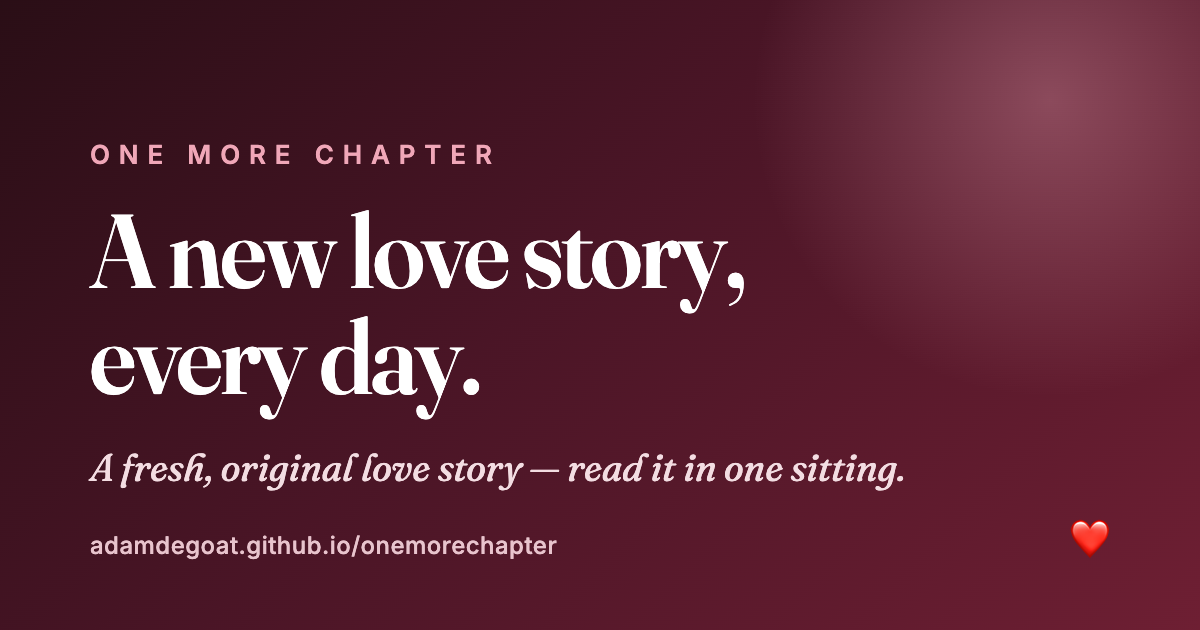
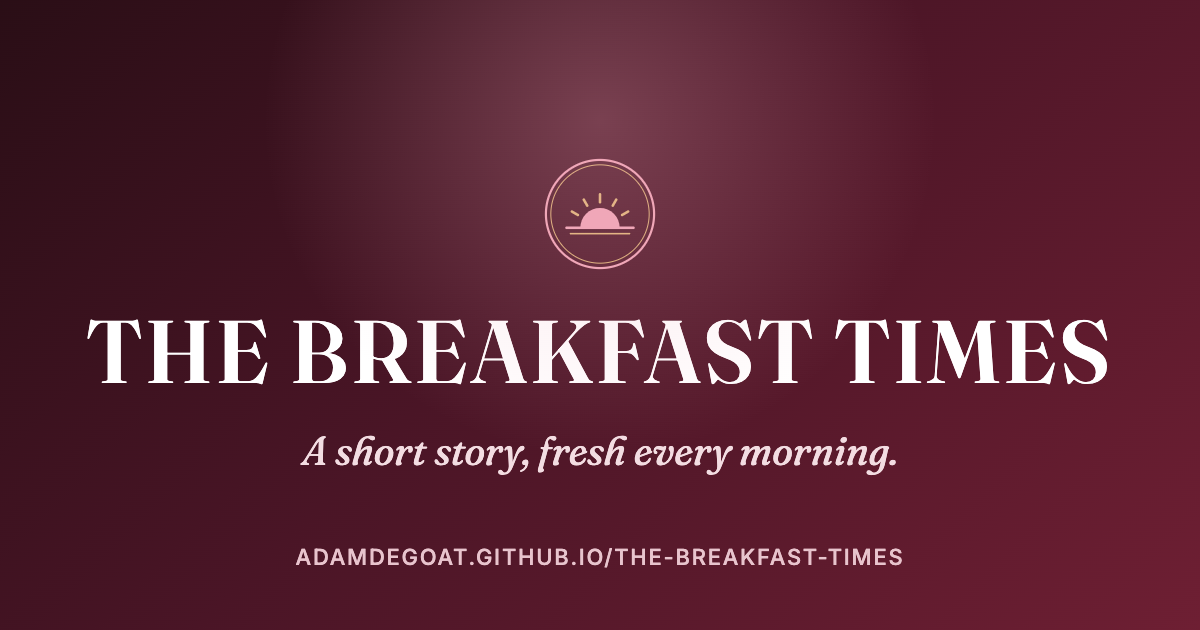
publish 2026-05-31T10:34+00:00

diff --git a/archive.html b/archive.html
@@ -3,23 +3,23 @@
 <head>
 <meta charset="utf-8">
 <meta name="viewport" content="width=device-width, initial-scale=1">
-<title>Archive — One More Chapter</title>
-<meta name="description" content="Every story. A new love story, every day.">
-<link rel="canonical" href="https://adamdegoat.github.io/onemorechapter/archive.html">
+<title>Archive — The Breakfast Times</title>
+<meta name="description" content="Every story. A short story, fresh every morning.">
+<link rel="canonical" href="https://adamdegoat.github.io/the-breakfast-times/archive.html">
 <meta name="google-site-verification" content="Na02pFt_18iTWXL1x6KX1B55heYh3wBs2Pd52oyydO0">
 <meta property="og:type" content="website">
-<meta property="og:site_name" content="One More Chapter">
-<meta property="og:title" content="Archive — One More Chapter">
-<meta property="og:description" content="Every story. A new love story, every day.">
-<meta property="og:url" content="https://adamdegoat.github.io/onemorechapter/archive.html">
-<meta property="og:image" content="https://adamdegoat.github.io/onemorechapter/assets/og-default.png">
+<meta property="og:site_name" content="The Breakfast Times">
+<meta property="og:title" content="Archive — The Breakfast Times">
+<meta property="og:description" content="Every story. A short story, fresh every morning.">
+<meta property="og:url" content="https://adamdegoat.github.io/the-breakfast-times/archive.html">
+<meta property="og:image" content="https://adamdegoat.github.io/the-breakfast-times/assets/og-default.png">
 <meta property="og:image:width" content="1200">
 <meta property="og:image:height" content="630">
 <meta name="twitter:card" content="summary_large_image">
-<meta name="twitter:title" content="Archive — One More Chapter">
-<meta name="twitter:description" content="Every story. A new love story, every day.">
-<meta name="twitter:image" content="https://adamdegoat.github.io/onemorechapter/assets/og-default.png">
-<link rel="alternate" type="application/rss+xml" title="One More Chapter" href="https://adamdegoat.github.io/onemorechapter/feed.xml">
+<meta name="twitter:title" content="Archive — The Breakfast Times">
+<meta name="twitter:description" content="Every story. A short story, fresh every morning.">
+<meta name="twitter:image" content="https://adamdegoat.github.io/the-breakfast-times/assets/og-default.png">
+<link rel="alternate" type="application/rss+xml" title="The Breakfast Times" href="https://adamdegoat.github.io/the-breakfast-times/feed.xml">
 <link rel="preconnect" href="https://fonts.googleapis.com">
 <link href="https://fonts.googleapis.com/css2?family=Fraunces:ital,opsz,wght@0,9..144,400;0,9..144,600;1,9..144,400&family=Lora:ital,wght@0,400;0,500;1,400;1,500&family=Inter:wght@400;500;600&display=swap" rel="stylesheet">
 <link rel="icon" href="assets/favicon.svg" type="image/svg+xml">
@@ -31,18 +31,21 @@
 <body>
 <div id="omc-progress"></div>
 <header class="masthead">
-  <a class="wordmark" href="index.html">One More Chapter</a>
+  <a class="logo" href="index.html" aria-label="The Breakfast Times">
+    <img class="logo-mark" src="assets/logo-mark.svg" alt="" width="58" height="58">
+    <span class="wordmark">The Breakfast Times</span>
+  </a>
   <div class="rule"><span class="orn">❀</span></div>
   <p class="dateline"><a href="archive.html">The Archive</a></p>
 </header>
 <main>
-<div class="archive"><h1>Every Chapter</h1><p class="lede">A new love story, every day. Every story we've ever told, newest first.</p><ul class="story-list"><li><a href="stories/2026-05-31-cold-water.html"><span class="no">No. 1 · Sunday, 31 May 2026</span><span class="t">Cold Water</span><span class="m">fake-dating · summer lake house · ~13 min</span></a></li></ul></div>
+<div class="archive"><h1>Every Chapter</h1><p class="lede">A short story, fresh every morning. Every story we've ever told, newest first.</p><ul class="story-list"><li><a href="stories/2026-05-31-cold-water.html"><span class="no">No. 1 · Sunday, 31 May 2026</span><span class="t">Cold Water</span><span class="m">fake-dating · summer lake house · ~13 min</span></a></li></ul></div>
 </main>
 <footer class="site-foot">
   <div class="rule"><span class="orn">❀</span></div>
-  <p class="foot-brand">One More Chapter</p>
-  <p class="foot-tag">A new love story, every day.</p>
-  <p class="foot-nav"><a href="index.html">Today</a> · <a href="archive.html">Archive</a> · <a href="https://adamdegoat.github.io/onemorechapter/feed.xml">RSS</a></p>
+  <p class="foot-brand">The Breakfast Times</p>
+  <p class="foot-tag">A short story, fresh every morning.</p>
+  <p class="foot-nav"><a href="index.html">Today</a> · <a href="archive.html">Archive</a> · <a href="https://adamdegoat.github.io/the-breakfast-times/feed.xml">RSS</a></p>
   <p class="muted">Original fiction, written &amp; curated fresh each morning. © 2026</p>
 </footer>
 <script src="assets/reader.js" defer></script>

diff --git a/index.html b/index.html
@@ -3,24 +3,24 @@
 <head>
 <meta charset="utf-8">
 <meta name="viewport" content="width=device-width, initial-scale=1">
-<title>Cold Water — One More Chapter</title>
+<title>Cold Water — The Breakfast Times</title>
 <meta name="description" content="Roped into fake-dating her best friend&#x27;s brother for a family lake weekend, she swears it&#x27;s a favor — until a cold morning swim and one overheard sentence make pretending impossible.">
-<link rel="canonical" href="https://adamdegoat.github.io/onemorechapter/stories/2026-05-31-cold-water.html">
+<link rel="canonical" href="https://adamdegoat.github.io/the-breakfast-times/stories/2026-05-31-cold-water.html">
 <meta name="google-site-verification" content="Na02pFt_18iTWXL1x6KX1B55heYh3wBs2Pd52oyydO0">
 <meta property="og:type" content="article">
-<meta property="og:site_name" content="One More Chapter">
-<meta property="og:title" content="Cold Water — One More Chapter">
+<meta property="og:site_name" content="The Breakfast Times">
+<meta property="og:title" content="Cold Water — The Breakfast Times">
 <meta property="og:description" content="Roped into fake-dating her best friend&#x27;s brother for a family lake weekend, she swears it&#x27;s a favor — until a cold morning swim and one overheard sentence make pretending impossible.">
-<meta property="og:url" content="https://adamdegoat.github.io/onemorechapter/stories/2026-05-31-cold-water.html">
-<meta property="og:image" content="https://adamdegoat.github.io/onemorechapter/assets/og/2026-05-31-cold-water.png">
+<meta property="og:url" content="https://adamdegoat.github.io/the-breakfast-times/stories/2026-05-31-cold-water.html">
+<meta property="og:image" content="https://adamdegoat.github.io/the-breakfast-times/assets/og/2026-05-31-cold-water.png">
 <meta property="og:image:width" content="1200">
 <meta property="og:image:height" content="630">
 <meta name="twitter:card" content="summary_large_image">
-<meta name="twitter:title" content="Cold Water — One More Chapter">
+<meta name="twitter:title" content="Cold Water — The Breakfast Times">
 <meta name="twitter:description" content="Roped into fake-dating her best friend&#x27;s brother for a family lake weekend, she swears it&#x27;s a favor — until a cold morning swim and one overheard sentence make pretending impossible.">
-<meta name="twitter:image" content="https://adamdegoat.github.io/onemorechapter/assets/og/2026-05-31-cold-water.png">
-<script type="application/ld+json">{"@context": "https://schema.org", "@type": "ShortStory", "headline": "Cold Water", "description": "Roped into fake-dating her best friend's brother for a family lake weekend, she swears it's a favor \u2014 until a cold morning swim and one overheard sentence make pretending impossible.", "datePublished": "2026-05-31", "genre": "Romance", "inLanguage": "en", "url": "https://adamdegoat.github.io/onemorechapter/stories/2026-05-31-cold-water.html", "image": "https://adamdegoat.github.io/onemorechapter/assets/og/2026-05-31-cold-water.png", "author": {"@type": "Organization", "name": "One More Chapter"}, "publisher": {"@type": "Organization", "name": "One More Chapter"}, "isAccessibleForFree": true}</script>
-<link rel="alternate" type="application/rss+xml" title="One More Chapter" href="https://adamdegoat.github.io/onemorechapter/feed.xml">
+<meta name="twitter:image" content="https://adamdegoat.github.io/the-breakfast-times/assets/og/2026-05-31-cold-water.png">
+<script type="application/ld+json">{"@context": "https://schema.org", "@type": "ShortStory", "headline": "Cold Water", "description": "Roped into fake-dating her best friend's brother for a family lake weekend, she swears it's a favor \u2014 until a cold morning swim and one overheard sentence make pretending impossible.", "datePublished": "2026-05-31", "genre": "Romance", "inLanguage": "en", "url": "https://adamdegoat.github.io/the-breakfast-times/stories/2026-05-31-cold-water.html", "image": "https://adamdegoat.github.io/the-breakfast-times/assets/og/2026-05-31-cold-water.png", "author": {"@type": "Organization", "name": "The Breakfast Times"}, "publisher": {"@type": "Organization", "name": "The Breakfast Times"}, "isAccessibleForFree": true}</script>
+<link rel="alternate" type="application/rss+xml" title="The Breakfast Times" href="https://adamdegoat.github.io/the-breakfast-times/feed.xml">
 <link rel="preconnect" href="https://fonts.googleapis.com">
 <link href="https://fonts.googleapis.com/css2?family=Fraunces:ital,opsz,wght@0,9..144,400;0,9..144,600;1,9..144,400&family=Lora:ital,wght@0,400;0,500;1,400;1,500&family=Inter:wght@400;500;600&display=swap" rel="stylesheet">
 <link rel="icon" href="assets/favicon.svg" type="image/svg+xml">
@@ -32,7 +32,10 @@
 <body>
 <div id="omc-progress"></div>
 <header class="masthead">
-  <a class="wordmark" href="index.html">One More Chapter</a>
+  <a class="logo" href="index.html" aria-label="The Breakfast Times">
+    <img class="logo-mark" src="assets/logo-mark.svg" alt="" width="58" height="58">
+    <span class="wordmark">The Breakfast Times</span>
+  </a>
   <div class="rule"><span class="orn">❀</span></div>
   <p class="dateline">Sunday, 31 May 2026<span class="sep">·</span>No. 1<span class="sep">·</span><a href="archive.html">The Archive</a></p>
   <p class="intro">A brand-new original love story, published here every morning — about fifteen minutes, free to read, no sign-up.</p>
@@ -189,9 +192,9 @@
 </main>
 <footer class="site-foot">
   <div class="rule"><span class="orn">❀</span></div>
-  <p class="foot-brand">One More Chapter</p>
-  <p class="foot-tag">A new love story, every day.</p>
-  <p class="foot-nav"><a href="index.html">Today</a> · <a href="archive.html">Archive</a> · <a href="https://adamdegoat.github.io/onemorechapter/feed.xml">RSS</a></p>
+  <p class="foot-brand">The Breakfast Times</p>
+  <p class="foot-tag">A short story, fresh every morning.</p>
+  <p class="foot-nav"><a href="index.html">Today</a> · <a href="archive.html">Archive</a> · <a href="https://adamdegoat.github.io/the-breakfast-times/feed.xml">RSS</a></p>
   <p class="muted">Original fiction, written &amp; curated fresh each morning. © 2026</p>
 </footer>
 <script src="assets/reader.js" defer></script>

diff --git a/stories/2026-05-31-cold-water.html b/stories/2026-05-31-cold-water.html
@@ -3,24 +3,24 @@
 <head>
 <meta charset="utf-8">
 <meta name="viewport" content="width=device-width, initial-scale=1">
-<title>Cold Water — One More Chapter</title>
+<title>Cold Water — The Breakfast Times</title>
 <meta name="description" content="Roped into fake-dating her best friend&#x27;s brother for a family lake weekend, she swears it&#x27;s a favor — until a cold morning swim and one overheard sentence make pretending impossible.">
-<link rel="canonical" href="https://adamdegoat.github.io/onemorechapter/stories/2026-05-31-cold-water.html">
+<link rel="canonical" href="https://adamdegoat.github.io/the-breakfast-times/stories/2026-05-31-cold-water.html">
 <meta name="google-site-verification" content="Na02pFt_18iTWXL1x6KX1B55heYh3wBs2Pd52oyydO0">
 <meta property="og:type" content="article">
-<meta property="og:site_name" content="One More Chapter">
-<meta property="og:title" content="Cold Water — One More Chapter">
+<meta property="og:site_name" content="The Breakfast Times">
+<meta property="og:title" content="Cold Water — The Breakfast Times">
 <meta property="og:description" content="Roped into fake-dating her best friend&#x27;s brother for a family lake weekend, she swears it&#x27;s a favor — until a cold morning swim and one overheard sentence make pretending impossible.">
-<meta property="og:url" content="https://adamdegoat.github.io/onemorechapter/stories/2026-05-31-cold-water.html">
-<meta property="og:image" content="https://adamdegoat.github.io/onemorechapter/assets/og/2026-05-31-cold-water.png">
+<meta property="og:url" content="https://adamdegoat.github.io/the-breakfast-times/stories/2026-05-31-cold-water.html">
+<meta property="og:image" content="https://adamdegoat.github.io/the-breakfast-times/assets/og/2026-05-31-cold-water.png">
 <meta property="og:image:width" content="1200">
 <meta property="og:image:height" content="630">
 <meta name="twitter:card" content="summary_large_image">
-<meta name="twitter:title" content="Cold Water — One More Chapter">
+<meta name="twitter:title" content="Cold Water — The Breakfast Times">
 <meta name="twitter:description" content="Roped into fake-dating her best friend&#x27;s brother for a family lake weekend, she swears it&#x27;s a favor — until a cold morning swim and one overheard sentence make pretending impossible.">
-<meta name="twitter:image" content="https://adamdegoat.github.io/onemorechapter/assets/og/2026-05-31-cold-water.png">
-<script type="application/ld+json">{"@context": "https://schema.org", "@type": "ShortStory", "headline": "Cold Water", "description": "Roped into fake-dating her best friend's brother for a family lake weekend, she swears it's a favor \u2014 until a cold morning swim and one overheard sentence make pretending impossible.", "datePublished": "2026-05-31", "genre": "Romance", "inLanguage": "en", "url": "https://adamdegoat.github.io/onemorechapter/stories/2026-05-31-cold-water.html", "image": "https://adamdegoat.github.io/onemorechapter/assets/og/2026-05-31-cold-water.png", "author": {"@type": "Organization", "name": "One More Chapter"}, "publisher": {"@type": "Organization", "name": "One More Chapter"}, "isAccessibleForFree": true}</script>
-<link rel="alternate" type="application/rss+xml" title="One More Chapter" href="https://adamdegoat.github.io/onemorechapter/feed.xml">
+<meta name="twitter:image" content="https://adamdegoat.github.io/the-breakfast-times/assets/og/2026-05-31-cold-water.png">
+<script type="application/ld+json">{"@context": "https://schema.org", "@type": "ShortStory", "headline": "Cold Water", "description": "Roped into fake-dating her best friend's brother for a family lake weekend, she swears it's a favor \u2014 until a cold morning swim and one overheard sentence make pretending impossible.", "datePublished": "2026-05-31", "genre": "Romance", "inLanguage": "en", "url": "https://adamdegoat.github.io/the-breakfast-times/stories/2026-05-31-cold-water.html", "image": "https://adamdegoat.github.io/the-breakfast-times/assets/og/2026-05-31-cold-water.png", "author": {"@type": "Organization", "name": "The Breakfast Times"}, "publisher": {"@type": "Organization", "name": "The Breakfast Times"}, "isAccessibleForFree": true}</script>
+<link rel="alternate" type="application/rss+xml" title="The Breakfast Times" href="https://adamdegoat.github.io/the-breakfast-times/feed.xml">
 <link rel="preconnect" href="https://fonts.googleapis.com">
 <link href="https://fonts.googleapis.com/css2?family=Fraunces:ital,opsz,wght@0,9..144,400;0,9..144,600;1,9..144,400&family=Lora:ital,wght@0,400;0,500;1,400;1,500&family=Inter:wght@400;500;600&display=swap" rel="stylesheet">
 <link rel="icon" href="../assets/favicon.svg" type="image/svg+xml">
@@ -32,7 +32,10 @@
 <body>
 <div id="omc-progress"></div>
 <header class="masthead">
-  <a class="wordmark" href="../index.html">One More Chapter</a>
+  <a class="logo" href="../index.html" aria-label="The Breakfast Times">
+    <img class="logo-mark" src="../assets/logo-mark.svg" alt="" width="58" height="58">
+    <span class="wordmark">The Breakfast Times</span>
+  </a>
   <div class="rule"><span class="orn">❀</span></div>
   <p class="dateline">Sunday, 31 May 2026<span class="sep">·</span>No. 1<span class="sep">·</span><a href="../archive.html">The Archive</a></p>
 </header>
@@ -188,9 +191,9 @@
 </main>
 <footer class="site-foot">
   <div class="rule"><span class="orn">❀</span></div>
-  <p class="foot-brand">One More Chapter</p>
-  <p class="foot-tag">A new love story, every day.</p>
-  <p class="foot-nav"><a href="../index.html">Today</a> · <a href="../archive.html">Archive</a> · <a href="https://adamdegoat.github.io/onemorechapter/feed.xml">RSS</a></p>
+  <p class="foot-brand">The Breakfast Times</p>
+  <p class="foot-tag">A short story, fresh every morning.</p>
+  <p class="foot-nav"><a href="../index.html">Today</a> · <a href="../archive.html">Archive</a> · <a href="https://adamdegoat.github.io/the-breakfast-times/feed.xml">RSS</a></p>
   <p class="muted">Original fiction, written &amp; curated fresh each morning. © 2026</p>
 </footer>
 <script src="../assets/reader.js" defer></script>

diff --git a/unsubscribe.html b/unsubscribe.html
@@ -3,7 +3,7 @@
 <head>
 <meta charset="utf-8">
 <meta name="viewport" content="width=device-width, initial-scale=1">
-<title>Unsubscribe — One More Chapter</title>
+<title>Unsubscribe — The Breakfast Times</title>
 <meta name="robots" content="noindex">
 <link rel="icon" href="assets/favicon.svg" type="image/svg+xml">
 <link href="https://fonts.googleapis.com/css2?family=Fraunces:opsz,wght@9..144,600&family=Lora:ital@1&family=Inter:wght@400;500&display=swap" rel="stylesheet">
@@ -12,7 +12,7 @@
 </head>
 <body>
 <header class="masthead">
-  <a class="wordmark" href="index.html">One More Chapter</a>
+  <a class="wordmark" href="index.html">The Breakfast Times</a>
   <div class="rule"><span class="orn">❀</span></div>
 </header>
 <main>

diff --git a/assets/style.css b/assets/style.css
@@ -29,6 +29,8 @@ a:hover{color:var(--rose)}
 
 /* ---------- masthead ---------- */
 .masthead{max-width:var(--wide);margin:0 auto;padding:2.4rem 1.25rem .4rem;text-align:center}
+.logo{display:inline-flex;flex-direction:column;align-items:center;text-decoration:none;gap:.55rem}
+.logo-mark{display:block;width:58px;height:58px}
 .wordmark{display:inline-block;font-family:"Fraunces",Georgia,serif;font-weight:600;
   font-size:1.18rem;letter-spacing:.30em;text-transform:uppercase;color:var(--ink);
   text-indent:.30em}